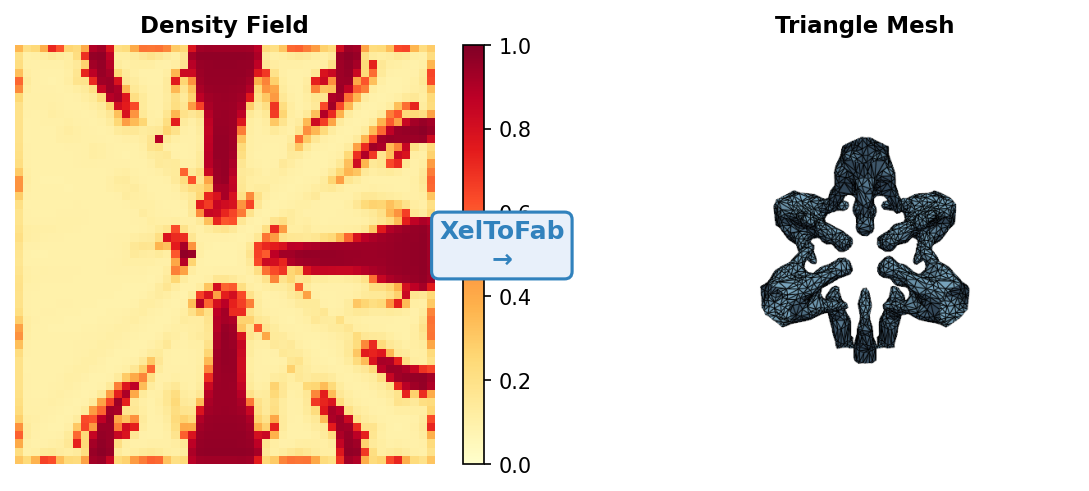
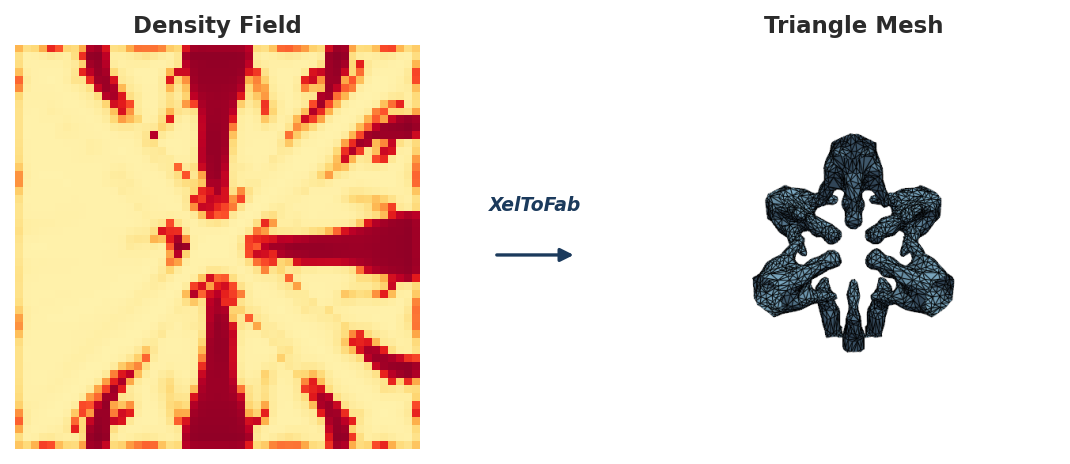
fix: redesign hero-overview arrow layout to avoid overlap
Remove colorbar from hero image for cleaner composition. Replace
boxy rounded-rect label with minimal italic text and horizontal
arrow in a dedicated gridspec column.

diff --git a/scripts/generate_doc_images.py b/scripts/generate_doc_images.py
@@ -495,27 +495,36 @@ def gen_hero_overview() -> None:
     # Right: final smoothed mesh via pyvista
     mesh_img = _pv_screenshot(result.best_vertices, result.faces)
 
-    fig, (ax_field, ax_mesh) = plt.subplots(1, 2, figsize=(10, 3.5))
+    # Use gridspec: left panel, center arrow gap, right panel
+    fig = plt.figure(figsize=(10, 3.5))
     fig.patch.set_facecolor(BG_COLOR)
+    gs = fig.add_gridspec(1, 3, width_ratios=[1, 0.18, 1], wspace=0.02)
+    ax_field = fig.add_subplot(gs[0, 0])
+    ax_arrow = fig.add_subplot(gs[0, 1])
+    ax_mesh = fig.add_subplot(gs[0, 2])
 
-    # Left panel: density field slice
-    im = ax_field.imshow(field[mid], cmap="YlOrRd", origin="lower", vmin=0, vmax=1)
-    ax_field.set_title("Density Field", fontsize=11, fontweight="bold")
+    # Left panel: density field slice — no colorbar for a clean hero image
+    ax_field.imshow(field[mid], cmap="YlOrRd", origin="lower", vmin=0, vmax=1)
+    ax_field.set_title("Density Field", fontsize=11, fontweight="bold", color="#2B2B2B")
     ax_field.axis("off")
-    fig.colorbar(im, ax=ax_field, fraction=0.046, pad=0.04)
+
+    # Center: horizontal arrow with label — minimal, no box
+    ax_arrow.set_xlim(0, 1)
+    ax_arrow.set_ylim(0, 1)
+    ax_arrow.axis("off")
+    ax_arrow.text(0.5, 0.58, "XelToFab", ha="center", va="bottom",
+                  fontsize=9, fontweight="bold", color="#1B3A5C",
+                  fontstyle="italic")
+    ax_arrow.annotate(
+        "", xy=(0.95, 0.48), xytext=(0.05, 0.48),
+        arrowprops=dict(arrowstyle="-|>", color="#1B3A5C", lw=1.6,
+                        mutation_scale=13),
+    )
 
     # Right panel: final mesh
     ax_mesh.imshow(mesh_img)
-    ax_mesh.set_title("Triangle Mesh", fontsize=11, fontweight="bold")
+    ax_mesh.set_title("Triangle Mesh", fontsize=11, fontweight="bold", color="#2B2B2B")
     ax_mesh.axis("off")
-
-    # Arrow with "XelToFab" label between panels
-    fig.tight_layout(pad=1.5)
-    # Place arrow annotation in figure coordinates (between the two axes)
-    fig.text(0.5, 0.5, "XelToFab\n→", ha="center", va="center",
-             fontsize=12, fontweight="bold", color=STAGE_COLORS["Smooth"],
-             bbox=dict(boxstyle="round,pad=0.3", facecolor="#E8F0FA",
-                       edgecolor=STAGE_COLORS["Smooth"], linewidth=1.5))
 
     fig.savefig(OUTPUT_DIR_GS / "hero-overview.png", dpi=DPI, bbox_inches="tight",
                 facecolor=BG_COLOR)
